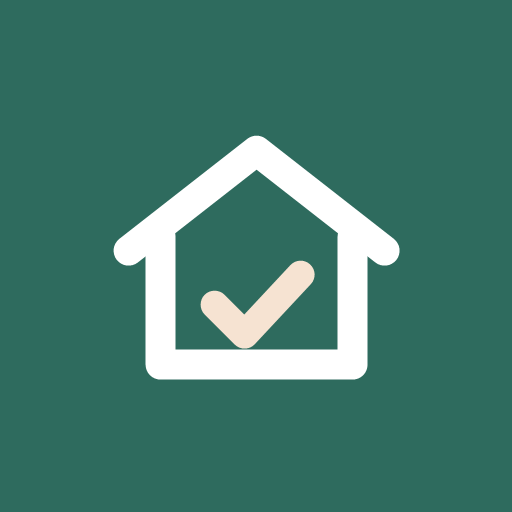
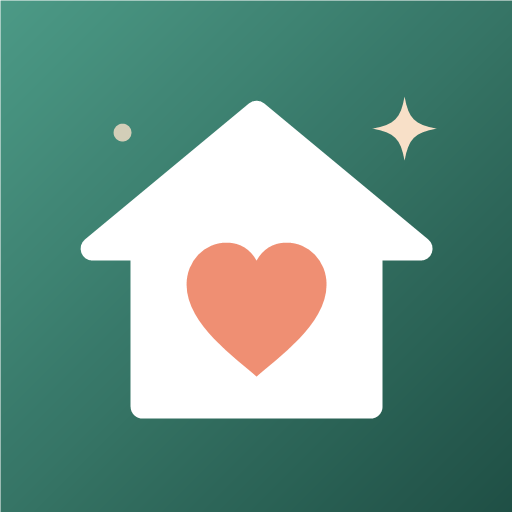
MomAssistant név, új ikon, feltöltő szkript

diff --git a/index.html b/index.html
@@ -3,13 +3,13 @@
 <head>
 <meta charset="utf-8">
 <meta name="viewport" content="width=device-width, initial-scale=1, viewport-fit=cover">
-<title>Házi Napló</title>
+<title>MomAssistant</title>
 <meta name="theme-color" content="#2E6B5E">
 <link rel="manifest" href="manifest.webmanifest">
 <link rel="icon" href="icon.svg" type="image/svg+xml">
-<link rel="apple-touch-icon" href="icon-192.png">
+<link rel="apple-touch-icon" href="apple-touch-icon.png">
 <meta name="apple-mobile-web-app-capable" content="yes">
-<meta name="apple-mobile-web-app-title" content="Házi Napló">
+<meta name="apple-mobile-web-app-title" content="MomAssistant">
 <link rel="preconnect" href="https://fonts.googleapis.com">
 <link rel="stylesheet" href="https://fonts.googleapis.com/css2?family=Bricolage+Grotesque:opsz,wght@12..96,500;12..96,700&family=Figtree:wght@400;500;600&display=swap">
 <style>
@@ -481,7 +481,7 @@ function render() {
   document.getElementById('today-label').textContent = longDate(Date.now());
   document.querySelectorAll('nav.tabs button').forEach(b => b.setAttribute('aria-current', b.dataset.tab === S.tab ? 'page' : 'false'));
   if (S.auth.status !== 'signedIn') {
-    setHead('Házi Napló', '');
+    setHead('MomAssistant', '');
     document.getElementById('view').innerHTML = viewAuth();
     document.querySelector('nav.tabs').hidden = true;
     return;

diff --git a/README.md b/README.md
@@ -1,4 +1,4 @@
-# Házi Napló
+# MomAssistant
 
 Házimunka- és bevásárlásnapló. A bejegyzésekből megtanulja, mit milyen gyakran csináltok vagy vesztek, és ez alapján előre jelez. A saját szabályaid (pl. „hétfőn és csütörtökön nem vásárolunk”) felülírják a megfigyelt mintát.
 
@@ -47,10 +47,8 @@ Nyisd meg a címet a telefonon, lépj be Google-fiókkal, majd:
 A claude.ai-os változatban: **Szabályok → Adatok → Adatok másolása (JSON)**. Az új appban: **Szabályok → Adatok → Importálás**, majd illeszd be és nyomd meg a **Betöltés** gombot.
 
 ## Frissítés
-Minden változtatás után:
+Minden változtatás után futtasd a projektmappában:
 ```
-git add -A
-git commit -m "Mit változtattunk"
-git push
+.\feltoltes.ps1 "Mit változtattunk"
 ```
-A GitHub Pages egy-két percen belül kiteszi az új verziót. A hozzáférési szabályok (`firestore.rules`) változását viszont a Firebase konzolban kell kézzel közzétenni.
+vagy kattints duplán a `feltoltes.cmd` fájlra. A szkript megmutatja, mely fájlok változtak, rákérdez egy rövid leírásra, majd feltölti őket. A GitHub Pages egy-két percen belül kiteszi az új verziót. A hozzáférési szabályok (`firestore.rules`) változását viszont a Firebase konzolban kell kézzel közzétenni.
